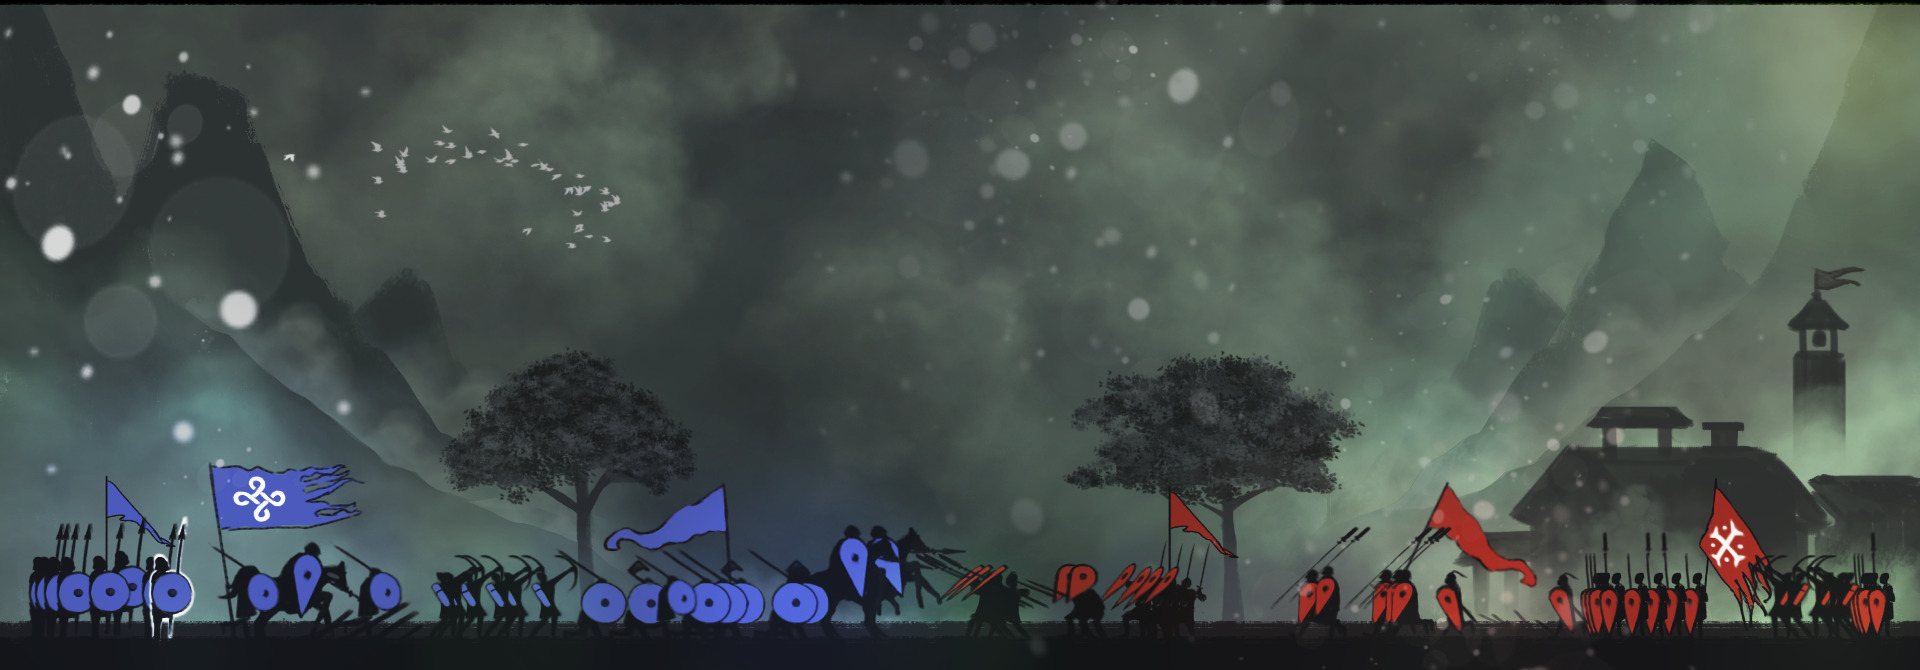
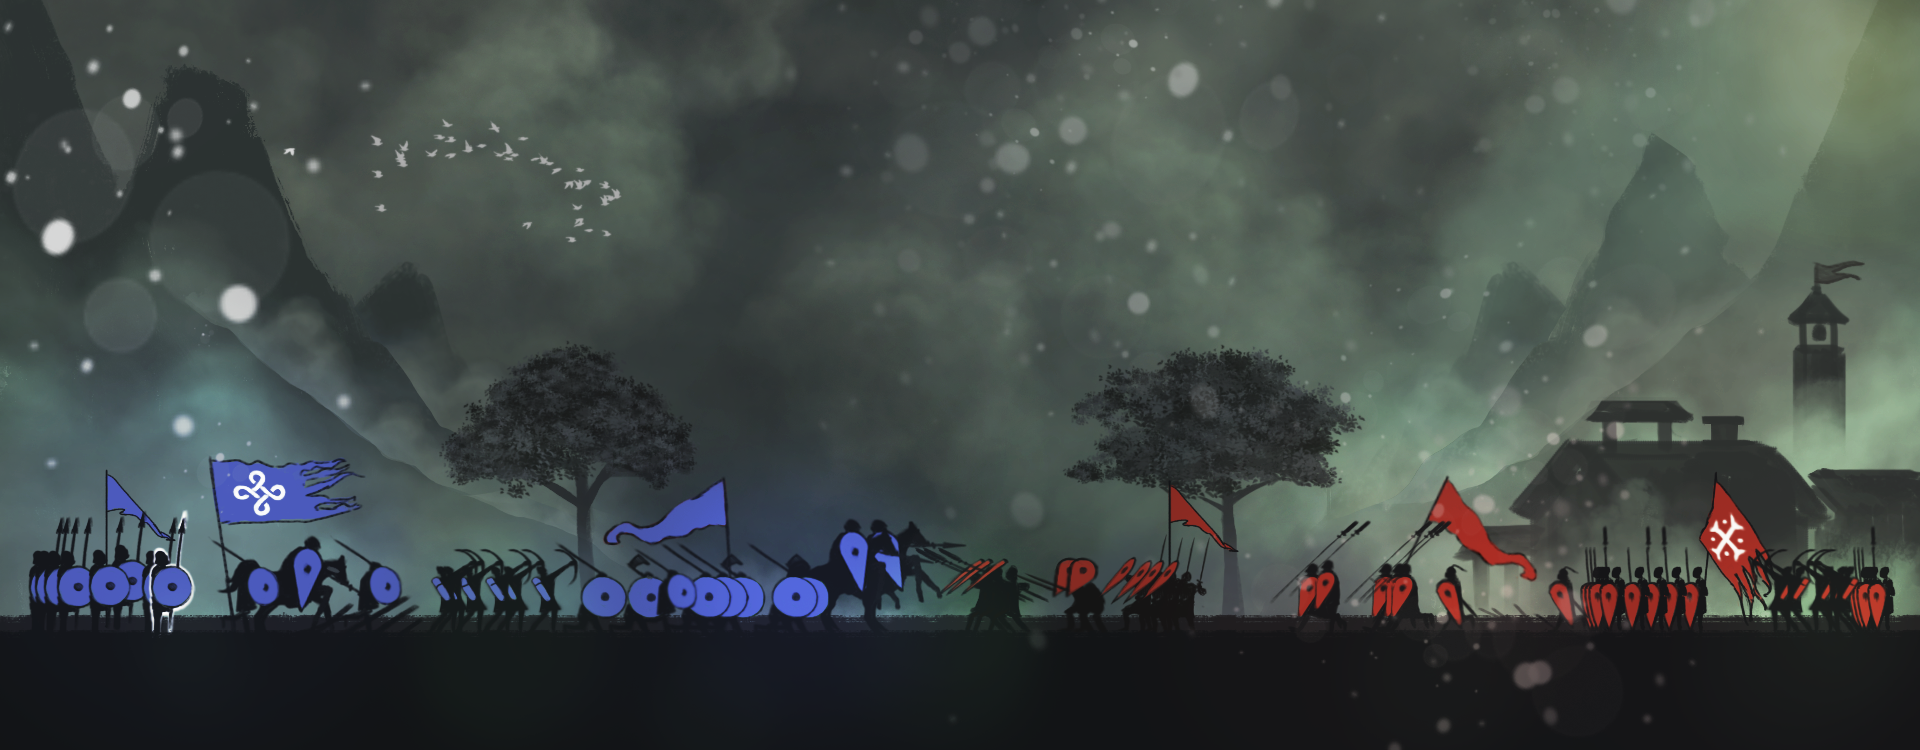
fix css responsiveness

diff --git a/index.css b/index.css
@@ -7,11 +7,10 @@
 
 .right-container {
   display: flex;
-  justify-content: center;
 }
 
 #introduction {
-  height: 60vh;
+  height: 75vh;
   padding-top: 75px;
   display: flex;
   flex-direction: row;
@@ -57,8 +56,11 @@
 
 #introduction-banner {
   position: absolute;
-  background: url('Images/Wallpaper/fightbanner.png');
-  height: 80vh;
+  top: -5px;
+  background: no-repeat url('Images/Wallpaper/fightbanner.png');
+  background-position: center top;
+  background-size: cover;
+  height: 85vh;
   width: 101%;
 }
 
@@ -89,12 +91,11 @@
 
 #introduction-right-container {
   flex-direction: column;
-  justify-content: center;
   padding: 20px 30px;
-  padding-top: 0;
   color: #eeeeee;
   background-color: #2727274d;
   backdrop-filter: blur(2px);
+  height: 390px;
 }
 
 @media (max-width: 1020px) {
@@ -206,14 +207,16 @@
   border: 2px solid #0fa;
   height: 40px;
   color: black;
-  font-weight: 700;
-  border-radius: 4px;
+  border: 5px solid black;
+  box-shadow: 5px 5px black;
+  font-weight: 800;
   text-transform: uppercase;
   outline: 0;
   position: relative;
   z-index: 10;
   cursor: pointer;
   background: #0fa;
+  transition: box-shadow 0.5s, margin-right 0.5s, margin-bottom 0.5s;
 }
 
 @media (max-width: 940px) {
@@ -223,19 +226,21 @@
 }
 
 #introduction-button:hover {
-  color: #0fa;
+  margin-right: -2px;
+  margin-bottom: -2px;
+  box-shadow: 3px 3px black;
 }
 
 #introduction-button:before {
   content: '';
   position: absolute;
-  background: black;
+  background: white;
   bottom: 0;
   left: 0;
   right: 0;
   top: 100%;
   z-index: -5;
-  transition: top 0.09s ease-in;
+  transition: top 0.2s ease-in;
 }
 
 #introduction-button:hover:before {

diff --git a/style.css b/style.css
@@ -4,6 +4,7 @@ html {
   scroll-padding-top: 200px;
   scroll-padding: 50px;
   overflow-x: hidden;
+  scroll-behavior: smooth;
 }
 
 body {
@@ -44,12 +45,14 @@ body {
 }
 
 .nav-tabs {
-  padding: 5px 10px;
+  padding: 0 10px;
   border-radius: 5px;
   color: white;
   text-decoration: none;
   font-size: 18px;
   cursor: pointer;
+  display: inline-block;
+  position: relative;
 }
 
 .nav-tabs:link {
@@ -65,8 +68,23 @@ body {
 }
 
 .nav-tabs:hover {
-  text-decoration: none;
-  background-color: rgba(63, 63, 63, 0.774);
+  opacity: 1;
+}
+
+.nav-tabs::before {
+  transition: 300ms;
+  height: 4px;
+  content: '';
+  position: absolute;
+  background-color: white;
+  width: 100%;
+  bottom: 2px;
+  opacity: 0;
+}
+
+.nav-tabs:hover::before {
+  bottom: 8px;
+  opacity: 1;
 }
 
 @media (max-width: 1135px) {
@@ -185,14 +203,16 @@ body {
 /* back to top button */
 #back-to-top-button {
   display: inline-block;
-  background-color: #2b2b2b;
+  background-color: white;
+  border: 5px solid black;
+  box-shadow: 5px 5px black;
   width: 50px;
   height: 50px;
   text-align: center;
   position: fixed;
   bottom: 30px;
   right: 30px;
-  transition: background-color 0.3s, opacity 0.5s, visibility 0.5s;
+  transition: background-color 0.3s, opacity 0.5s, visibility 0.5s, bottom 0.5s;
   opacity: 0;
   visibility: hidden;
   z-index: 9999;
@@ -205,12 +225,13 @@ body {
   font-style: normal;
   font-size: 2em;
   line-height: 50px;
-  color: #fff;
+  color: black;
 }
 
 #back-to-top-button:hover {
   cursor: pointer;
   background-color: #0fa;
+  bottom: 40px;
 }
 
 #back-to-top-button:active {
